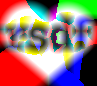
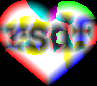
clip to bulk at extreme

diff --git a/crates/builder/examples/logo.rs b/crates/builder/examples/logo.rs
@@ -95,12 +95,20 @@ fn gen(mut image: Image, shape: Shape) -> Image {
     for x in 0..image.width {
       let point = Point::from((x as f32, y as f32));
       // "single channel"
-      // let pixel = shape.sample_single_channel(point);
-      // let pixel = [pixel, pixel, pixel].map(|sp| distance_color(sp));
+      // let sample = shape.sample_single_channel(point);
+      // let mut color @ [r, g, b] = [sample; 3].map(|sp| distance_color(sp));
+
       // multi channel
-      let pixel = shape.sample(point);
-      let pixel = pixel.map(|sp| distance_color(sp));
-      image.set_pixel([x, y], pixel);
+      let sample = shape.sample(point);
+      let mut color @ [r, g, b] = sample.map(|sp| distance_color(sp));
+
+      // clip remaining values when bulk is 0
+      let sum = r as u16 + g as u16 + b as u16;
+      if r as u16 == sum || g as u16 == sum || b as u16 == sum {
+        color = [0; 3]
+      }
+
+      image.set_pixel([x, y], color);
     }
   }
 
